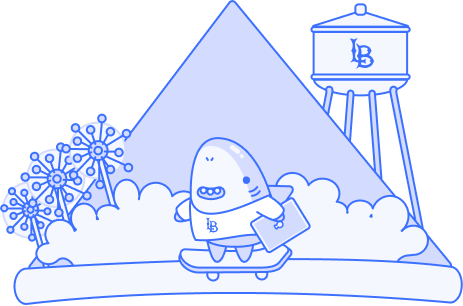
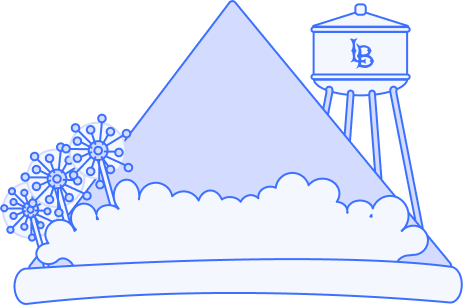
sk8er shark and opacity changes

Changed region(s): [[0.3629, 0.4412, 0.6652, 0.9412]]

diff --git a/client-sq/src/components/Dashboard.js b/client-sq/src/components/Dashboard.js
@@ -329,7 +329,7 @@ const Dashboard = ({ theme, mode }) => {
                   }
                  
                   <div style={{
-                    
+                    opacity:  "70%",
                    
                     position: "absolute",
                     left: "0",
@@ -343,18 +343,18 @@ const Dashboard = ({ theme, mode }) => {
                     transformOrigin: "bottom right",
                     
 
-                    opacity: mode === "light" ? "70%":"70%",
+                   
                     zIndex: 2,
                     position: "relative",
-                    marginBottom: mode === "light" ? '-13.6vw': "-5.5vw",
-                    marginLeft: mode === "light" ? '20vw': "9vw",
+                    marginBottom: mode === "light" ? '-16vw': "-5.5vw",
+                    marginLeft: mode === "light" ? '2vw': "9vw",
                     
-                    width:  mode === "light" ? 54* 0.021 + 'vw' : 5.7* .3378 + 'vw',
-                    height: mode === "light" ? 54* 0.009 + 'vw' : 5.7*.6089   + 'vw',
+                    width:  mode === "light" ? 54* 0.148 + 'vw' : 5.7* .3378 + 'vw',
+                    height: mode === "light" ? 54* 0.146 + 'vw' : 5.7*.6089   + 'vw',
                   }}
-                    src={ mode === "light" ? "lines.png" : "zZ.png" } />
+                    src={ mode === "light" ? "sharkSk8.png" : "zZ.png" } />
                   <img  style={{
-                    opacity: mode === "light" ? "70%":"100%",
+                    
                     zIndex: 1,
                     position: "relative",
                     width: mode === "light" ? 54 *.46253 + 'vw' : 54 *.41668 + 'vw',

diff --git a/client-sq/src/styles/App.css b/client-sq/src/styles/App.css
@@ -179,20 +179,22 @@ main{
 
 
 .sidetoside {
-  animation: sides 3s infinite ease-in-out;
+  animation: sides 6s infinite ease-in-out;
   
 }
 
 @keyframes sides {
   0% {
-    transform: translateX(-2.25vw);
+    transform: translateX(30vw)rotate(5deg);
   }
-  50% {
-    transform: translateX(-1vw);
-  }
+ 
+  50%   { 
+    transform: translateX(10vw)translateY(-2vh); }   
   
-  100%   { 
-    transform: translateX(-2.25vw); }   
+  
+  
+  100%  { 
+    transform: translateX(-10vw)rotate(-7deg); }   
   
 }
 
